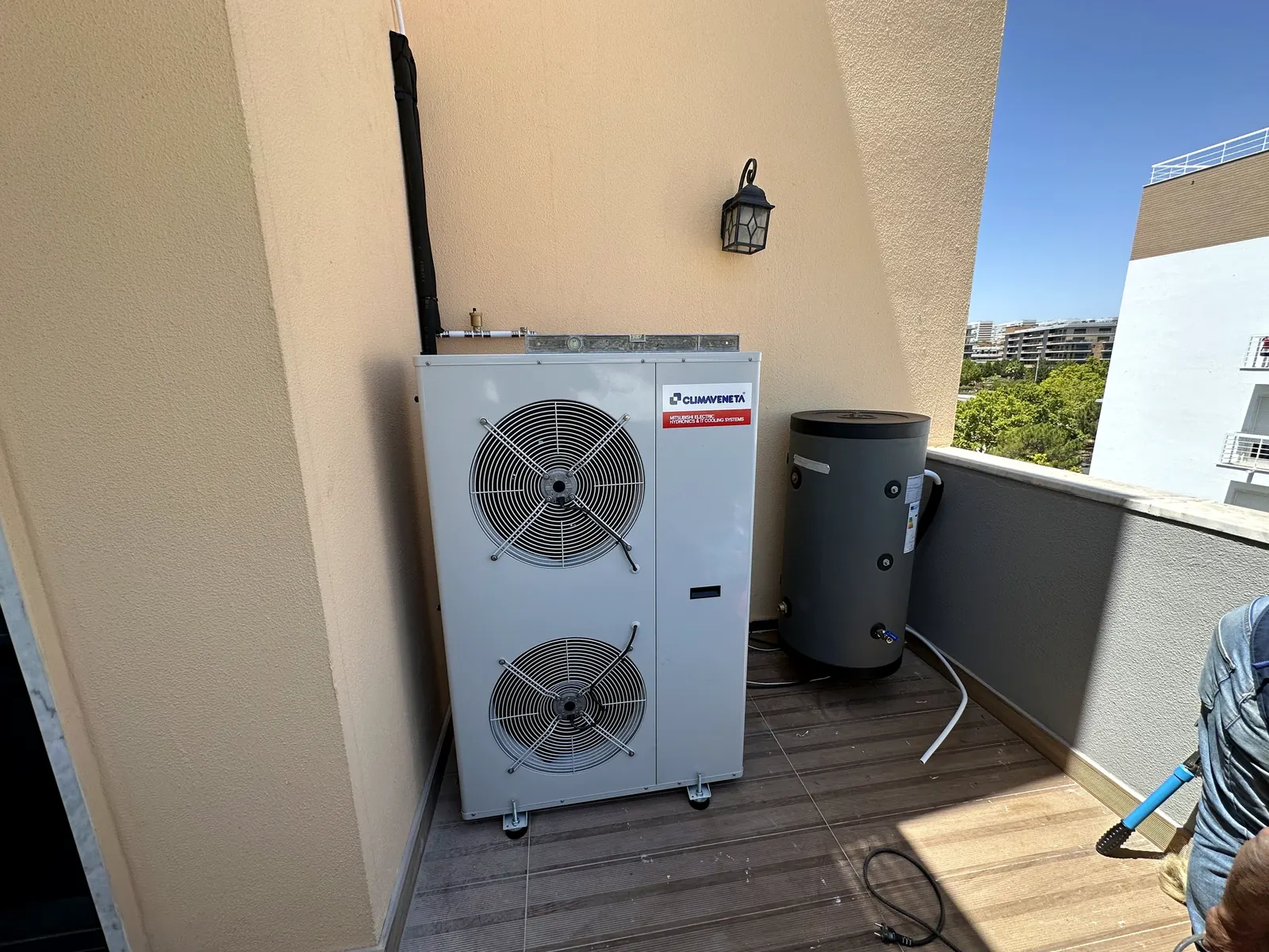
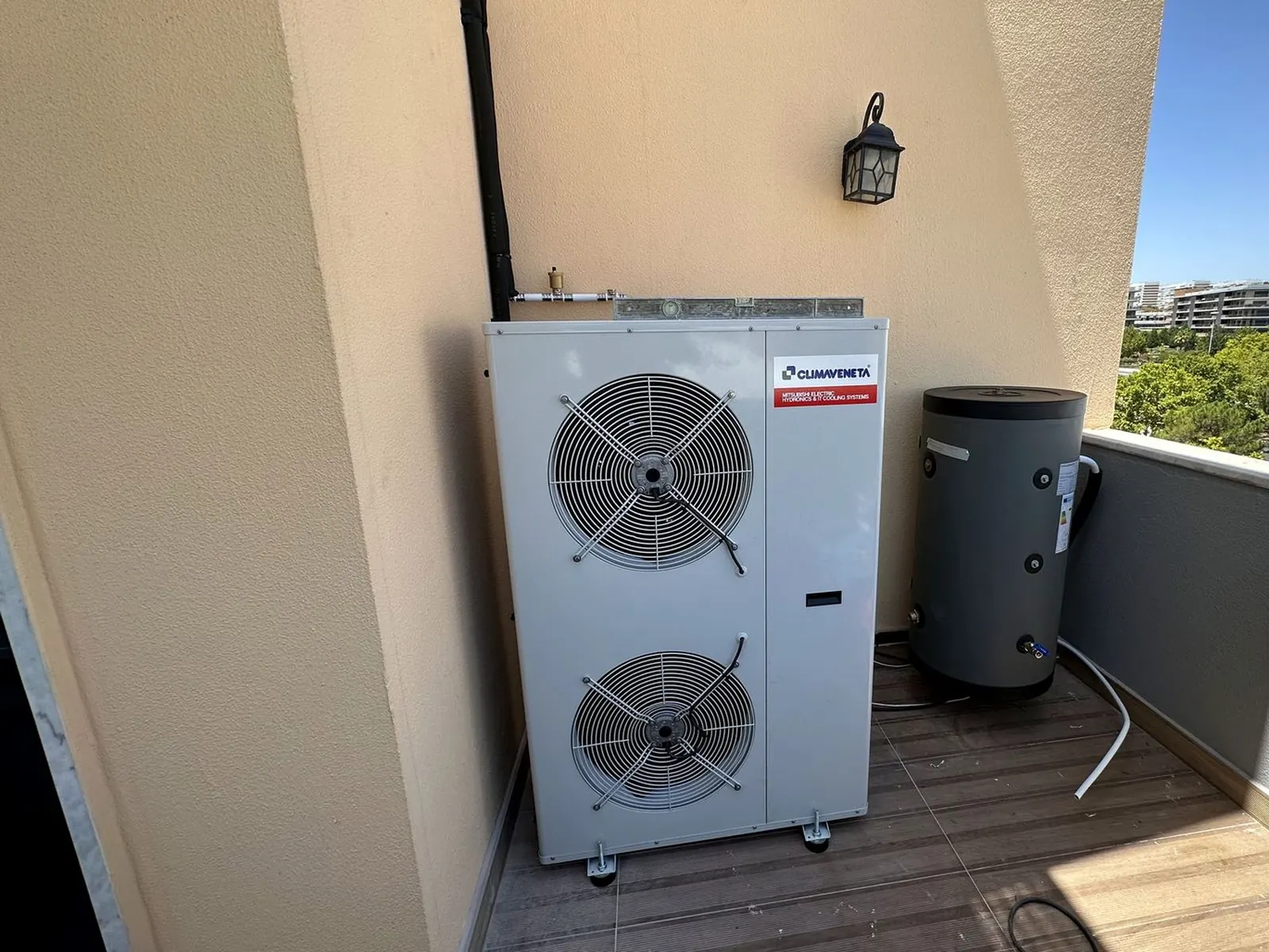
Add the heat-pump service page and wire it across the site
Port v3's air-to-water heat-pump page into PR #13's own service-page
format: hot water and combined hot water + heating (as the owner
confirmed), the panel connection by the in-house electrician, and
maintenance. No prices, response times or guarantees.

- New servicos/bombas-de-calor.html with jobs F04 and F29 (the same
  owner photos v3 used as bomba-moradia and bomba-varanda-deposito).
- Home: fifth Especialidades card; a lone last card spans its row at
  640px and up. Footer, 404, form option with [P1 · Bomba de calor],
  its WhatsApp message, cross links from AC, electrical and
  maintenance pages, vCard note and van page copy.
- Service JSON-LD on all five service pages, linked to the business
  by @id.
- F29 photo re-cropped to drop a bystander, as v3 did.
- F26 is air conditioning, not a heat pump (owner answer of 28/09 on
  v3's midea-cobertura, the same job): new title and slug.
- Drop the R-AQUA model name from F04's text.

Claude-Session: https://claude.ai/code/session_016fXcfp91ZPBrbN8QcawRdm

diff --git a/website/src/pages/servicos/bombas-de-calor.html b/website/src/pages/servicos/bombas-de-calor.html
@@ -1,0 +1,97 @@
+<!--meta {"file": "servicos/bombas-de-calor.html", "title": "Bombas de calor ar-água em Lisboa: águas quentes e aquecimento | MDM", "description": "Bombas de calor ar-água na grande Lisboa, para águas quentes e aquecimento: visita, instalação, ligação ao quadro elétrico e manutenção. Orçamento gratuito.", "nav": "servicos", "preselect": "Bomba de calor: instalação / manutenção", "wa": "bombaCalor", "cartaoSizes": "(min-width: 1440px) 628px, (min-width: 640px) 44vw, 100vw", "jsonld": ["servico", "breadcrumb", "faq"], "servico": {"nome": "Bombas de calor ar-água em Lisboa", "tipo": "Instalação e manutenção de bombas de calor ar-água", "ofertas": ["Bomba de calor para águas quentes", "Bomba de calor para águas quentes e aquecimento", "Manutenção de bombas de calor"]}, "breadcrumb": [["Início", ""], ["Bombas de calor", "servicos/bombas-de-calor.html"]], "css": ["pag-servicos.css"]} -->
+<section class="pag-hero" aria-labelledby="servT" style="--foto-ar: .75; --foto-pos-m: 50% 80%; --foto-pos-d: 50% 60%">
+  <div class="hero-foto">{{foto 04 loading="eager" sizes="(min-width: 900px) and (min-aspect-ratio: 2/3) min(57vh, 510px), 100vw" class="foto-bc"}}</div>
+  <div class="pag-hero-in">
+    <nav class="migalhas entra-1" aria-label="Migalhas">
+      <a href="{{ root }}index.html">Início</a>
+      <span aria-hidden="true">›</span>
+      <span aria-current="page">Bombas de calor</span>
+    </nav>
+    <div class="hero-rot">
+      <span class="hero-risco"></span>
+      <p class="rotulo entra-2">Bombas de calor · Grande Lisboa</p>
+    </div>
+    <h1 class="h1 entra-3" id="servT">Bombas de calor <span class="nowrap">ar-água</span>, da escolha ao quadro elétrico.</h1>
+    <p class="hero-lead entra-4">Águas quentes e aquecimento para casas e pequenos negócios. A escolha do equipamento, a instalação, a ligação ao quadro elétrico e a manutenção ficam a cargo da mesma equipa.</p>
+    <div class="hero-acoes entra-5">
+      <a class="btn btn-accent" data-lead="orcamento" data-preselect="Bomba de calor: instalação / manutenção" href="#orcamento">Pedir orçamento <svg class="seta" viewBox="0 0 256 256" aria-hidden="true"><path d="M221.66,133.66l-72,72a8,8,0,0,1-11.32-11.32L196.69,136H40a8,8,0,0,1,0-16H196.69L138.34,61.66a8,8,0,0,1,11.32-11.32l72,72A8,8,0,0,1,221.66,133.66Z"/></svg></a>
+      <a class="btn btn-wa" data-lead="bombaCalor" href="{{wa bombaCalor}}" target="_blank" rel="noopener"><svg class="ico" viewBox="0 0 256 256" aria-hidden="true"><path d="M187.58,144.84l-32-16a8,8,0,0,0-8,.5l-14.69,9.8a40.55,40.55,0,0,1-16-16l9.8-14.69a8,8,0,0,0,.5-8l-16-32A8,8,0,0,0,104,64a40,40,0,0,0-40,40,88.1,88.1,0,0,0,88,88,40,40,0,0,0,40-40A8,8,0,0,0,187.58,144.84ZM152,176a72.08,72.08,0,0,1-72-72A24,24,0,0,1,99.29,80.46l11.48,23L101,118a8,8,0,0,0-.73,7.51,56.47,56.47,0,0,0,30.15,30.15A8,8,0,0,0,138,155l14.61-9.74,23,11.48A24,24,0,0,1,152,176ZM128,24A104,104,0,0,0,36.18,176.88L24.83,210.93a16,16,0,0,0,20.24,20.24l34.05-11.35A104,104,0,1,0,128,24Zm0,192a87.87,87.87,0,0,1-44.06-11.81,8,8,0,0,0-6.54-.67L40,216,52.47,178.6a8,8,0,0,0-.66-6.54A88,88,0,1,1,128,216Z"/></svg> Enviar fotografias</a>
+    </div>
+  </div>
+  <p class="hero-leg">F04 · Bombas de calor · Unidade monobloco em lajetas de betão, no jardim de uma moradia</p>
+</section>
+
+<section class="sec" id="o-que-fazemos" aria-labelledby="fazemosT">
+  <div class="duas">
+    <div data-r>
+      <p class="rotulo rotulo-accent">O que fazemos</p>
+      <h2 class="h2 serv-h2" id="fazemosT">Água quente com o calor que está no ar.</h2>
+      <div class="prosa">
+        <p>Uma bomba de calor <span class="nowrap">ar-água</span> aquece água a partir do ar exterior. Pode servir só as águas quentes da casa, guardadas num depósito, ou, num sistema combinado, aquecer também a casa. Qual das duas faz sentido depende da casa e do uso, e é isso que vemos consigo na visita.</p>
+        <p>Antes de dar preço, vamos ao local: vemos onde pode ficar a unidade exterior, onde cabe o depósito e por onde passa a tubagem entre os dois. O equipamento é escolhido para a casa e para o consumo de água quente, não pelo catálogo.</p>
+        <p>Uma bomba de calor precisa muitas vezes de um circuito próprio e de proteção no quadro elétrico; se o quadro for antigo, pode ter de ser adaptado antes da instalação. Como temos eletricista certificado na equipa, essa parte faz-se na mesma obra, sem esperar por um segundo profissional. Veja a <a href="{{ root }}servicos/eletricidade.html">eletricidade</a> e, para depois da instalação, a <a href="{{ root }}servicos/manutencao.html">manutenção</a>.</p>
+      </div>
+    </div>
+    <ul class="lista-traco" data-r>
+      <li><strong>Águas quentes</strong>A água dos banhos e da cozinha, aquecida a partir do ar exterior e guardada num depósito próprio.</li>
+      <li><strong>Águas quentes e aquecimento</strong>O mesmo equipamento aquece a água e a casa, quando a casa e o uso o justificam.</li>
+      <li><strong>Visita técnica</strong>O sítio da unidade exterior e do depósito, o percurso da tubagem e o quadro elétrico.</li>
+      <li><strong>Ligação ao quadro</strong>Circuito próprio e proteção, feitos pelo nosso eletricista certificado na mesma obra.</li>
+      <li><strong>Arranque e explicação</strong>Deixamos o sistema a funcionar e explicamos as regulações.</li>
+      <li><strong>Manutenção</strong>Revisões pela mesma equipa que instalou, pontuais ou no contrato anual.</li>
+    </ul>
+  </div>
+</section>
+
+<section class="sec sec-areia" id="obras" aria-labelledby="obrasServT">
+  <div class="sec-cab" data-r>
+    <div>
+      <p class="rotulo rotulo-accent">Obras</p>
+      <h2 class="h2" id="obrasServT">Obras <span class="nowrap">ar-água</span></h2>
+    </div>
+    <p class="texto-aco">Unidades exteriores que aquecem ou arrefecem água, com a tubagem e o depósito, fotografadas pelos técnicos no local.</p>
+  </div>
+  <div class="obras-grelha obras-duas" data-r>
+    {{each obra-card 04,29}}
+  </div>
+  <div class="serv-mais" data-r>
+    <a class="btn btn-contorno" href="{{ root }}obras.html#fac">Obras em fachadas e terraços <svg class="seta" viewBox="0 0 256 256" aria-hidden="true"><path d="M221.66,133.66l-72,72a8,8,0,0,1-11.32-11.32L196.69,136H40a8,8,0,0,1,0-16H196.69L138.34,61.66a8,8,0,0,1,11.32-11.32l72,72A8,8,0,0,1,221.66,133.66Z"/></svg></a>
+    <a class="btn btn-contorno" href="{{ root }}obras.html">Todas as obras <svg class="seta" viewBox="0 0 256 256" aria-hidden="true"><path d="M221.66,133.66l-72,72a8,8,0,0,1-11.32-11.32L196.69,136H40a8,8,0,0,1,0-16H196.69L138.34,61.66a8,8,0,0,1,11.32-11.32l72,72A8,8,0,0,1,221.66,133.66Z"/></svg></a>
+  </div>
+</section>
+
+<section class="sec" id="metodo" aria-labelledby="metodoServT">
+  <div class="grelha">
+    <div class="metodo-intro" data-r>
+      <p class="rotulo rotulo-accent">Como trabalhamos</p>
+      <h2 class="h2" id="metodoServT">Como corre uma instalação.</h2>
+      <p class="texto-aco">Só damos preço depois de ver o local. O orçamento é gratuito e sem compromisso.</p>
+    </div>
+    <ol class="passos" data-r>
+      <li class="passo"><span class="passo-n">01</span><div><strong>Envie fotografias</strong><span>Do sítio onde pode ficar a unidade exterior, do espaço para o depósito e do quadro elétrico. Ajudam o técnico a preparar a visita.</span></div></li>
+      <li class="passo"><span class="passo-n">02</span><div><strong>Visita e orçamento</strong><span>Vemos o local, o percurso da tubagem e o quadro elétrico, escolhemos o equipamento consigo e só depois damos preço.</span></div></li>
+      <li class="passo"><span class="passo-n">03</span><div><strong>Instalação</strong><span>Unidade exterior, depósito e tubagem, circuito próprio no quadro, arranque e ensaio com tudo a funcionar.</span></div></li>
+      <li class="passo"><span class="passo-n">04</span><div><strong>Entrega e revisões</strong><span>Explicamos as regulações e deixamos a fatura com os seus dados fiscais. As revisões podem entrar num <a href="{{ root }}servicos/manutencao.html">contrato de manutenção</a>.</span></div></li>
+    </ol>
+  </div>
+</section>
+
+{{> certificacoes }}
+
+<section class="sec" id="perguntas" aria-labelledby="perguntasServT">
+  <div class="grelha">
+    <div class="faq-intro" data-r>
+      <p class="rotulo rotulo-accent">Perguntas</p>
+      <h2 class="h2" id="perguntasServT">Antes de instalar uma bomba de calor.</h2>
+    </div>
+    <div class="faq-lista" data-r>
+      <details class="faq-item"><summary>Qual é a diferença entre uma bomba de calor ar-água e um ar condicionado? <svg class="faq-mais" viewBox="0 0 256 256" aria-hidden="true"><path d="M224,128a8,8,0,0,1-8,8H136v80a8,8,0,0,1-16,0V136H40a8,8,0,0,1,0-16h80V40a8,8,0,0,1,16,0v80h80A8,8,0,0,1,224,128Z"/></svg></summary><div><p>O ar condicionado aquece ou arrefece o ar da divisão. A bomba de calor <span class="nowrap">ar-água</span> aquece água: a das torneiras, guardada num depósito, e, num sistema combinado, também a do aquecimento da casa. Se quer climatizar uma sala ou um quarto, veja o <a href="{{ root }}servicos/ar-condicionado.html">ar condicionado</a>.</p></div></details>
+      <details class="faq-item"><summary>Serve só para águas quentes ou também aquece a casa? <svg class="faq-mais" viewBox="0 0 256 256" aria-hidden="true"><path d="M224,128a8,8,0,0,1-8,8H136v80a8,8,0,0,1-16,0V136H40a8,8,0,0,1,0-16h80V40a8,8,0,0,1,16,0v80h80A8,8,0,0,1,224,128Z"/></svg></summary><div><p>Pode fazer as duas coisas. Instalamos bombas de calor só para águas quentes e sistemas combinados, que aquecem a água e a casa. Qual faz sentido depende da casa e do uso: vemos isso consigo na visita.</p></div></details>
+      <details class="faq-item"><summary>A bomba de calor precisa de obras elétricas? <svg class="faq-mais" viewBox="0 0 256 256" aria-hidden="true"><path d="M224,128a8,8,0,0,1-8,8H136v80a8,8,0,0,1-16,0V136H40a8,8,0,0,1,0-16h80V40a8,8,0,0,1,16,0v80h80A8,8,0,0,1,224,128Z"/></svg></summary><div><p>Muitas vezes precisa de um circuito próprio e de proteção no quadro elétrico. Vemos o quadro na visita, antes do orçamento. Como temos eletricista certificado na equipa, a ligação faz-se na mesma obra.</p></div></details>
+      <details class="faq-item"><summary>Quanto custa instalar uma bomba de calor? <svg class="faq-mais" viewBox="0 0 256 256" aria-hidden="true"><path d="M224,128a8,8,0,0,1-8,8H136v80a8,8,0,0,1-16,0V136H40a8,8,0,0,1,0-16h80V40a8,8,0,0,1,16,0v80h80A8,8,0,0,1,224,128Z"/></svg></summary><div><p>Depende do equipamento, do consumo de água quente da casa, de servir também o aquecimento e do sítio onde ficam a unidade exterior e o depósito, por isso não damos preço sem ver. O orçamento é gratuito e sem compromisso.</p></div></details>
+      <details class="faq-item"><summary>A bomba de calor precisa de manutenção? <svg class="faq-mais" viewBox="0 0 256 256" aria-hidden="true"><path d="M224,128a8,8,0,0,1-8,8H136v80a8,8,0,0,1-16,0V136H40a8,8,0,0,1,0-16h80V40a8,8,0,0,1,16,0v80h80A8,8,0,0,1,224,128Z"/></svg></summary><div><p>Sim. Uma revisão periódica mantém o rendimento do equipamento. A mesma equipa que instala faz a manutenção, em visitas pontuais ou no <a href="{{ root }}servicos/manutencao.html">contrato anual</a>.</p></div></details>
+    </div>
+  </div>
+</section>
+
+{{> contacto }}

diff --git a/website/src/pages/index.html b/website/src/pages/index.html
@@ -1,4 +1,4 @@
-<!--meta {"file": "index.html", "title": "Ar condicionado, ventilação e eletricidade em Lisboa | MDM", "description": "Ar condicionado, ventilação, eletricidade e manutenção na grande Lisboa desde 1991. Técnicos certificados, assistência multimarca e orçamento gratuito.", "nav": "", "jsonld": ["business", "faq"], "css": ["pag-home.css"]} -->
+<!--meta {"file": "index.html", "title": "Ar condicionado, ventilação e eletricidade em Lisboa | MDM", "description": "Ar condicionado, bombas de calor, ventilação, eletricidade e manutenção na grande Lisboa desde 1991. Técnicos certificados e orçamento gratuito.", "nav": "", "jsonld": ["business", "faq"], "css": ["pag-home.css"]} -->
 <section class="hero hero-retrato" aria-labelledby="heroT">
   <div class="hero-foto"><picture class="foto"><source media="(min-width: 700px) and (min-aspect-ratio: 4/3), (max-height: 520px) and (min-aspect-ratio: 3/2)" type="image/avif" srcset="{{ root }}assets/img/hero/mdm-plataforma-largo-1200.avif 1200w, {{ root }}assets/img/hero/mdm-plataforma-largo-1600.avif 1600w, {{ root }}assets/img/hero/mdm-plataforma-largo-2000.avif 2000w, {{ root }}assets/img/hero/mdm-plataforma-largo-2400.avif 2400w" sizes="100vw"><source media="(min-width: 700px) and (min-aspect-ratio: 4/3), (max-height: 520px) and (min-aspect-ratio: 3/2)" type="image/webp" srcset="{{ root }}assets/img/hero/mdm-plataforma-largo-1200.webp 1200w, {{ root }}assets/img/hero/mdm-plataforma-largo-1600.webp 1600w, {{ root }}assets/img/hero/mdm-plataforma-largo-2000.webp 2000w, {{ root }}assets/img/hero/mdm-plataforma-largo-2400.webp 2400w" sizes="100vw"><source media="(min-width: 700px) and (min-aspect-ratio: 4/3), (max-height: 520px) and (min-aspect-ratio: 3/2)" srcset="{{ root }}assets/img/hero/mdm-plataforma-largo-1600.jpg 1600w, {{ root }}assets/img/hero/mdm-plataforma-largo-2400.jpg 2400w" sizes="100vw"><source type="image/avif" srcset="{{ root }}assets/img/hero/mdm-plataforma-600.avif 600w, {{ root }}assets/img/hero/mdm-plataforma-800.avif 800w, {{ root }}assets/img/hero/mdm-plataforma-1000.avif 1000w, {{ root }}assets/img/hero/mdm-plataforma-1200.avif 1200w" sizes="(max-width: 599px) and (min-resolution: 2.5dppx) 67vw, (min-width: 900px) and (min-aspect-ratio: 2/3) calc((100vh - 76px) * .75), (min-width: 700px) and (min-aspect-ratio: 6/5) calc((100vh - 64px) * .75), (max-height: 520px) and (min-aspect-ratio: 3/2) calc((100vh - 64px) * .75), 100vw"><source type="image/webp" srcset="{{ root }}assets/img/hero/mdm-plataforma-600.webp 600w, {{ root }}assets/img/hero/mdm-plataforma-800.webp 800w, {{ root }}assets/img/hero/mdm-plataforma-1000.webp 1000w, {{ root }}assets/img/hero/mdm-plataforma-1200.webp 1200w" sizes="(max-width: 599px) and (min-resolution: 2.5dppx) 67vw, (min-width: 900px) and (min-aspect-ratio: 2/3) calc((100vh - 76px) * .75), (min-width: 700px) and (min-aspect-ratio: 6/5) calc((100vh - 64px) * .75), (max-height: 520px) and (min-aspect-ratio: 3/2) calc((100vh - 64px) * .75), 100vw"><img src="{{ root }}assets/img/hero/mdm-plataforma-1200.jpg" srcset="{{ root }}assets/img/hero/mdm-plataforma-600.jpg 600w, {{ root }}assets/img/hero/mdm-plataforma-1200.jpg 1200w" sizes="(max-width: 599px) and (min-resolution: 2.5dppx) 67vw, (min-width: 900px) and (min-aspect-ratio: 2/3) calc((100vh - 76px) * .75), (min-width: 700px) and (min-aspect-ratio: 6/5) calc((100vh - 64px) * .75), (max-height: 520px) and (min-aspect-ratio: 3/2) calc((100vh - 64px) * .75), 100vw" alt="Camião da MDM com plataforma elevatória à porta de um pavilhão; no cesto, dois técnicos montam unidades exteriores de ar condicionado na fachada." width="1200" height="1600" loading="eager" decoding="async" fetchpriority="high"></picture></div>
   <div class="hero-in">
@@ -19,7 +19,7 @@
 <div class="faixa">
   <div class="faixa-in">
     <div class="faixa-item"><strong>1991</strong><span>Fundação</span></div>
-    <div class="faixa-item"><strong>4</strong><span>Especialidades</span></div>
+    <div class="faixa-item"><strong>5</strong><span>Especialidades</span></div>
     <div class="faixa-item"><strong>Grande Lisboa</strong><span>Zona de intervenção</span></div>
     <a class="faixa-item foco-dentro" data-lead="tel" href="{{ site.phoneHref }}"><strong>{{ site.phone }}</strong><span>{{ site.hours }}</span></a>
   </div>
@@ -29,7 +29,7 @@
   <div class="sec-cab" data-r>
     <div>
       <p class="rotulo rotulo-accent">Especialidades</p>
-      <h2 class="h2" id="espT">Quatro ofícios,<br> uma única equipa.</h2>
+      <h2 class="h2" id="espT">Cinco ofícios,<br> uma única equipa.</h2>
     </div>
     <p class="texto-aco">Técnicos certificados em AVAC e em eletricidade: instalação, ligação elétrica, condutas e manutenção, com a mesma empresa a responder por tudo.</p>
   </div>
@@ -40,6 +40,14 @@
         <div class="esp-cab"><h3 class="h3" id="esp-ac-t">Ar condicionado</h3><svg class="seta" viewBox="0 0 256 256" aria-hidden="true"><path d="M221.66,133.66l-72,72a8,8,0,0,1-11.32-11.32L196.69,136H40a8,8,0,0,1,0-16H196.69L138.34,61.66a8,8,0,0,1,11.32-11.32l72,72A8,8,0,0,1,221.66,133.66Z"/></svg></div>
         <p id="esp-ac-d">Split, multi-split e VRF. Da moradia ao pavilhão industrial, com maciços, apoios antivibráticos e tubagem à vista feita a régua.</p>
         <span class="esp-marcas">Midea · Mitsubishi Electric · Daikin</span>
+      </div>
+    </a>
+    <a class="esp-card" href="{{ root }}servicos/bombas-de-calor.html" aria-labelledby="esp-bc-t" aria-describedby="esp-bc-d">
+      <div class="quadro">{{foto 04 sizes="(min-width: 1100px) 320px, (min-width: 640px) 45vw, 100vw" class="foto-bc"}}</div>
+      <div class="esp-corpo">
+        <div class="esp-cab"><h3 class="h3" id="esp-bc-t">Bombas de calor</h3><svg class="seta" viewBox="0 0 256 256" aria-hidden="true"><path d="M221.66,133.66l-72,72a8,8,0,0,1-11.32-11.32L196.69,136H40a8,8,0,0,1,0-16H196.69L138.34,61.66a8,8,0,0,1,11.32-11.32l72,72A8,8,0,0,1,221.66,133.66Z"/></svg></div>
+        <p id="esp-bc-d">Águas quentes e aquecimento a partir do ar exterior, com a ligação ao quadro elétrico e a manutenção feitas pela mesma equipa.</p>
+        <span class="esp-marcas"><span class="nowrap">Ar-água</span> · Águas quentes · Aquecimento</span>
       </div>
     </a>
     <a class="esp-card" href="{{ root }}servicos/manutencao.html" aria-labelledby="esp-man-t" aria-describedby="esp-man-d">

diff --git a/website/src/pages/servicos/eletricidade.html b/website/src/pages/servicos/eletricidade.html
@@ -1,4 +1,4 @@
-<!--meta {"file": "servicos/eletricidade.html", "title": "Eletricista para quadros e alimentações AVAC em Lisboa | MDM", "description": "Quadros, alimentações e proteções para ar condicionado e ventilação na grande Lisboa. Comando, automatismos e diagnóstico de placas por técnico certificado.", "nav": "servicos", "preselect": "Eletricidade: quadros e alimentações AVAC", "wa": "eletricidade", "cartaoSizes": "(min-width: 1440px) 628px, (min-width: 640px) 44vw, 100vw", "jsonld": ["breadcrumb", "faq"], "breadcrumb": [["Início", ""], ["Eletricidade", "servicos/eletricidade.html"]], "css": ["pag-servicos.css"]} -->
+<!--meta {"file": "servicos/eletricidade.html", "title": "Eletricista para quadros e alimentações AVAC em Lisboa | MDM", "description": "Quadros, alimentações e proteções para ar condicionado e ventilação na grande Lisboa. Comando, automatismos e diagnóstico de placas por técnico certificado.", "nav": "servicos", "preselect": "Eletricidade: quadros e alimentações AVAC", "wa": "eletricidade", "cartaoSizes": "(min-width: 1440px) 628px, (min-width: 640px) 44vw, 100vw", "jsonld": ["servico", "breadcrumb", "faq"], "servico": {"nome": "Eletricidade para AVAC em Lisboa", "tipo": "Instalações elétricas para ar condicionado e ventilação", "ofertas": ["Quadros elétricos para AVAC", "Alimentações e proteções", "Comando e automatismos", "Diagnóstico de placas"]}, "breadcrumb": [["Início", ""], ["Eletricidade", "servicos/eletricidade.html"]], "css": ["pag-servicos.css"]} -->
 <section class="pag-hero" aria-labelledby="servT" style="--foto-ar: .75; --foto-pos-m: 60% 35%; --foto-pos-d: 60% 40%">
   <div class="hero-foto">{{foto 15 loading="eager" sizes="(min-width: 900px) and (min-aspect-ratio: 2/3) min(57vh, 510px), 100vw" class="foto-ele"}}</div>
   <div class="pag-hero-in">
@@ -29,12 +29,12 @@
       <div class="prosa">
         <p>Uma unidade de ar condicionado bem montada não arranca sem uma alimentação à medida: cabo com a secção certa, proteção própria no quadro e ligação à terra. Num edifício com várias máquinas, isso quer dizer muitas vezes um quadro só para o AVAC, com cada circuito identificado.</p>
         <p>Fazemos também o comando: termóstatos, comandos centralizados, horários e automatismos que ligam a ventilação ou o ar condicionado quando é preciso, ou que impedem um equipamento de arrancar enquanto outro está parado.</p>
-        <p>Quando a máquina não liga ou mostra um código de erro, abrimos o painel e medimos. Nem todas as avarias são de gás: pode ser uma proteção que dispara, um contactor gasto ou uma placa de comando com defeito. Como os nossos técnicos são certificados em eletricidade e em <a href="{{ root }}servicos/ar-condicionado.html">ar condicionado</a>, as duas partes ficam a cargo da mesma empresa.</p>
+        <p>Quando a máquina não liga ou mostra um código de erro, abrimos o painel e medimos. Nem todas as avarias são de gás: pode ser uma proteção que dispara, um contactor gasto ou uma placa de comando com defeito. Como os nossos técnicos são certificados em eletricidade e em <a href="{{ root }}servicos/ar-condicionado.html">ar condicionado</a>, as duas partes ficam a cargo da mesma empresa. O mesmo vale para as <a href="{{ root }}servicos/bombas-de-calor.html">bombas de calor</a>: o circuito próprio e a proteção no quadro fazem-se na mesma obra.</p>
       </div>
     </div>
     <ul class="lista-traco" data-r>
       <li><strong>Quadros elétricos para AVAC</strong>Montagem de quadros novos ou adaptação dos existentes, com circuitos identificados.</li>
-      <li><strong>Alimentações</strong>Do quadro até cada unidade exterior, interior ou ventilador.</li>
+      <li><strong>Alimentações</strong>Do quadro até cada unidade exterior, interior, ventilador ou bomba de calor.</li>
       <li><strong>Proteções</strong>Disjuntores e diferenciais escolhidos para cada equipamento.</li>
       <li><strong>Comando</strong>Termóstatos, comandos centralizados e cablagem entre unidades.</li>
       <li><strong>Automatismos</strong>Horários, encravamentos e arranque coordenado de equipamentos.</li>

diff --git a/website/src/pages/servicos/manutencao.html b/website/src/pages/servicos/manutencao.html
@@ -1,4 +1,4 @@
-<!--meta {"file": "servicos/manutencao.html", "title": "Manutenção AVAC em Lisboa: contratos anuais | MDM", "description": "Manutenção AVAC na grande Lisboa: contrato anual, visitas programadas e relatório escrito, para empresas, condomínios, banca, indústria e escolas.", "nav": "servicos", "preselect": "Manutenção preventiva: contrato anual", "wa": "manutencao", "jsonld": ["breadcrumb", "faq"], "breadcrumb": [["Início", ""], ["Manutenção", "servicos/manutencao.html"]], "css": ["pag-servicos.css"]} -->
+<!--meta {"file": "servicos/manutencao.html", "title": "Manutenção AVAC em Lisboa: contratos anuais | MDM", "description": "Manutenção AVAC na grande Lisboa: contrato anual, visitas programadas e relatório escrito, para empresas, condomínios, banca, indústria e escolas.", "nav": "servicos", "preselect": "Manutenção preventiva: contrato anual", "wa": "manutencao", "jsonld": ["servico", "breadcrumb", "faq"], "servico": {"nome": "Manutenção AVAC em Lisboa", "tipo": "Manutenção preventiva e corretiva de AVAC", "ofertas": ["Contrato anual de manutenção preventiva", "Relatório escrito em cada visita", "Reparação de avarias"]}, "breadcrumb": [["Início", ""], ["Manutenção", "servicos/manutencao.html"]], "css": ["pag-servicos.css"]} -->
 <section class="pag-hero" aria-labelledby="servT" style="--foto-ar: 1.3333; --foto-pos-m: 56% 45%; --foto-pos-d: 56% 40%">
   <div class="hero-foto">{{foto 02 loading="eager" sizes="(min-width: 900px) and (min-aspect-ratio: 2/3) min(101vh, 907px), 100vw" class="foto-man"}}</div>
   <div class="pag-hero-in">
@@ -29,7 +29,7 @@
       <div class="prosa">
         <p>Um equipamento que ninguém abre durante anos acaba por falhar no dia em que faz mais falta. A manutenção preventiva serve para isso: numa visita programada, o técnico limpa filtros e baterias, verifica o gás, os condensados e as ligações elétricas, e vê que peças dão sinais de desgaste antes de pararem.</p>
         <p>No contrato anual fica escrito que equipamentos estão incluídos e quando são as visitas. No fim de cada visita recebe um relatório com o estado de cada máquina e o que foi feito, pronto a mostrar à administração do condomínio ou a quem gere o edifício.</p>
-        <p>Quando há uma avaria, fazemos também a manutenção corretiva. A assistência é multimarca, com peças originais. E se o problema estiver no quadro ou na alimentação, os nossos técnicos de <a href="{{ root }}servicos/eletricidade.html">eletricidade</a> também tratam disso.</p>
+        <p>Quando há uma avaria, fazemos também a manutenção corretiva. A assistência é multimarca, com peças originais. E se o problema estiver no quadro ou na alimentação, os nossos técnicos de <a href="{{ root }}servicos/eletricidade.html">eletricidade</a> também tratam disso. O contrato anual pode incluir as <a href="{{ root }}servicos/bombas-de-calor.html">bombas de calor</a>.</p>
       </div>
     </div>
     <ul class="lista-traco" data-r>
@@ -39,6 +39,7 @@
       <li><strong>Circuito de gás</strong>Pressões medidas com manómetros e procura de fugas.</li>
       <li><strong>Parte elétrica</strong>Ligações, proteções e placas de comando.</li>
       <li><strong>Ventilação</strong>Revisão de condutas, ventiladores e unidades de tratamento de ar.</li>
+      <li><strong>Bombas de calor</strong>Revisões pontuais ou no contrato anual, pela mesma equipa que as instala.</li>
       <li><strong>Relatório escrito</strong>Depois de cada visita, máquina a máquina.</li>
       <li><strong>Reparação de avarias</strong>Diagnóstico no local e peças originais, em qualquer marca.</li>
     </ul>

diff --git a/website/src/pages/servicos/ar-condicionado.html b/website/src/pages/servicos/ar-condicionado.html
@@ -1,4 +1,4 @@
-<!--meta {"file": "servicos/ar-condicionado.html", "title": "Ar condicionado em Lisboa: split, multi-split e VRF | MDM", "description": "Ar condicionado na grande Lisboa: split, multi-split e VRF em maciços com apoios antivibráticos e tubagem a prumo. Orçamento gratuito e sem compromisso.", "nav": "servicos", "preselect": "Ar condicionado: montagem / instalação", "wa": "montagem", "jsonld": ["breadcrumb", "faq"], "breadcrumb": [["Início", ""], ["Ar condicionado", "servicos/ar-condicionado.html"]], "css": ["pag-servicos.css"]} -->
+<!--meta {"file": "servicos/ar-condicionado.html", "title": "Ar condicionado em Lisboa: split, multi-split e VRF | MDM", "description": "Ar condicionado na grande Lisboa: split, multi-split e VRF em maciços com apoios antivibráticos e tubagem a prumo. Orçamento gratuito e sem compromisso.", "nav": "servicos", "preselect": "Ar condicionado: montagem / instalação", "wa": "montagem", "jsonld": ["servico", "breadcrumb", "faq"], "servico": {"nome": "Ar condicionado em Lisboa", "tipo": "Instalação e reparação de ar condicionado", "ofertas": ["Split mural", "Multi-split", "VRF", "Unidades de condutas", "Reparação de avarias"]}, "breadcrumb": [["Início", ""], ["Ar condicionado", "servicos/ar-condicionado.html"]], "css": ["pag-servicos.css"]} -->
 <section class="pag-hero" aria-labelledby="servT" style="--foto-ar: 1.3333; --foto-pos-m: 50% 60%; --foto-pos-d: 50% 62%">
   <div class="hero-foto">{{foto 01 loading="eager" sizes="(min-width: 900px) and (min-aspect-ratio: 2/3) min(101vh, 907px), 100vw" class="foto-ac"}}</div>
   <div class="pag-hero-in">
@@ -27,7 +27,7 @@
       <p class="rotulo rotulo-accent">O que fazemos</p>
       <h2 class="h2 serv-h2" id="fazemosT">Da visita ao local ao arranque da máquina.</h2>
       <div class="prosa">
-        <p>Antes de dar preço, vamos ao sítio. Vemos onde pode ficar a unidade exterior, por onde passa a tubagem, para onde escorrem os condensados e de onde vem a alimentação elétrica. É aí que se decide entre um split por divisão, um multi-split com uma só máquina lá fora ou, num edifício com muitas zonas, um sistema VRF.</p>
+        <p>Antes de dar preço, vamos ao sítio. Vemos onde pode ficar a unidade exterior, por onde passa a tubagem, para onde escorrem os condensados e de onde vem a alimentação elétrica. É aí que se decide entre um split por divisão, um multi-split com uma só máquina lá fora ou, num edifício com muitas zonas, um sistema VRF. Para aquecer a água da casa, a resposta é outra: uma <a href="{{ root }}servicos/bombas-de-calor.html">bomba de calor <span class="nowrap">ar-água</span></a>.</p>
         <p>Na cobertura ou no terraço, a máquina não fica pousada na laje: assenta em maciços de betão ou em perfis metálicos, sobre apoios antivibráticos, para não passar vibração ao edifício. A tubagem e a calha seguem a prumo e em esquadria, porque vão ficar à vista durante muitos anos.</p>
         <p>Dentro de casa, tapamos móveis e chão antes de abrir a caixa e aspiramos no fim. Se o aparelho que já tem avariou, também o reparamos: a assistência é multimarca, com peças originais. Para o manter a trabalhar, veja a <a href="{{ root }}servicos/manutencao.html">manutenção preventiva</a>.</p>
       </div>

diff --git a/website/src/pages/carrinha.html b/website/src/pages/carrinha.html
@@ -1,4 +1,4 @@
-<!--meta {"file": "carrinha.html", "title": "Viu a nossa carrinha? | MDM Assistência Técnica", "description": "A carrinha da MDM está a trabalhar perto de si. Ar condicionado, ventilação, eletricidade e manutenção na grande Lisboa desde 1991. Orçamento gratuito por WhatsApp ou telefone.", "nav": "", "robots": "noindex", "wa": "carrinha", "css": ["pag-carrinha.css"], "og": "foto-26-1600.jpg"} -->
+<!--meta {"file": "carrinha.html", "title": "Viu a nossa carrinha? | MDM Assistência Técnica", "description": "A carrinha da MDM está a trabalhar perto de si. Ar condicionado, bombas de calor, ventilação, eletricidade e manutenção na grande Lisboa desde 1991. Orçamento gratuito por WhatsApp ou telefone.", "nav": "", "robots": "noindex", "wa": "carrinha", "css": ["pag-carrinha.css"], "og": "foto-26-1600.jpg"} -->
 <!-- Página de quem leu o código QR de uma carrinha (marketing/gerar_qr.py).
      ?v=01&p=t diz a carrinha e o lado; site.js junta essa origem ao WhatsApp, ao formulário e à medição.
      Fora do menu e do mapa do site: só se chega aqui pelo código. -->
@@ -11,9 +11,9 @@
       <p class="rotulo entra-2">MDM · Grande Lisboa · Desde 1991</p>
     </div>
     <h1 class="h1 entra-3" id="carT">Viu a nossa carrinha?</h1>
-    <p class="hero-lead entra-4">Se a carrinha está aí, há uma obra aqui perto. Ar condicionado, ventilação, eletricidade e manutenção: diga-nos o que precisa e o orçamento é gratuito.</p>
+    <p class="hero-lead entra-4">Se a carrinha está aí, há uma obra aqui perto. Ar condicionado, bombas de calor, ventilação, eletricidade e manutenção: diga-nos o que precisa e o orçamento é gratuito.</p>
   </div>
-  <p class="hero-leg">F26 · Ar condicionado · Bomba de calor sobre Moscavide</p>
+  <p class="hero-leg">F26 · Ar condicionado · Unidade Midea sobre Moscavide</p>
 </section>
 
 <section class="sec car-escolha" aria-labelledby="escT" data-esconde-barra>
@@ -40,7 +40,7 @@
       </a></li>
       <li><a class="car-op" data-lead="carrinha" href="{{wa carrinha}}" target="_blank" rel="noopener">
         <span class="car-op-n">04</span>
-        <span class="car-op-txt"><strong>Outra coisa</strong><span>Eletricidade, ventilação ou vários serviços. Conte-nos em duas linhas.</span></span>
+        <span class="car-op-txt"><strong>Outra coisa</strong><span>Bomba de calor, eletricidade, ventilação ou vários serviços. Conte-nos em duas linhas.</span></span>
         <span class="car-op-via">WhatsApp <svg class="seta" viewBox="0 0 256 256" aria-hidden="true"><path d="M221.66,133.66l-72,72a8,8,0,0,1-11.32-11.32L196.69,136H40a8,8,0,0,1,0-16H196.69L138.34,61.66a8,8,0,0,1,11.32-11.32l72,72A8,8,0,0,1,221.66,133.66Z"/></svg></span>
       </a></li>
     </ul>

diff --git a/website/src/pages/404.html b/website/src/pages/404.html
@@ -16,6 +16,7 @@
         <li><a href="{{ root }}index.html"><strong>Início <svg class="seta" viewBox="0 0 256 256" aria-hidden="true"><path d="M221.66,133.66l-72,72a8,8,0,0,1-11.32-11.32L196.69,136H40a8,8,0,0,1,0-16H196.69L138.34,61.66a8,8,0,0,1,11.32-11.32l72,72A8,8,0,0,1,221.66,133.66Z"/></svg></strong><span>A MDM, as especialidades e como trabalhamos.</span></a></li>
         <li><a href="{{ root }}obras.html"><strong>Obras <svg class="seta" viewBox="0 0 256 256" aria-hidden="true"><path d="M221.66,133.66l-72,72a8,8,0,0,1-11.32-11.32L196.69,136H40a8,8,0,0,1,0-16H196.69L138.34,61.66a8,8,0,0,1,11.32-11.32l72,72A8,8,0,0,1,221.66,133.66Z"/></svg></strong><span>Trabalhos fotografados no local, com a ficha de cada um.</span></a></li>
         <li><a href="{{ root }}servicos/ar-condicionado.html"><strong>Ar condicionado <svg class="seta" viewBox="0 0 256 256" aria-hidden="true"><path d="M221.66,133.66l-72,72a8,8,0,0,1-11.32-11.32L196.69,136H40a8,8,0,0,1,0-16H196.69L138.34,61.66a8,8,0,0,1,11.32-11.32l72,72A8,8,0,0,1,221.66,133.66Z"/></svg></strong><span>Montagem, avarias e reparação.</span></a></li>
+        <li><a href="{{ root }}servicos/bombas-de-calor.html"><strong>Bombas de calor <svg class="seta" viewBox="0 0 256 256" aria-hidden="true"><path d="M221.66,133.66l-72,72a8,8,0,0,1-11.32-11.32L196.69,136H40a8,8,0,0,1,0-16H196.69L138.34,61.66a8,8,0,0,1,11.32-11.32l72,72A8,8,0,0,1,221.66,133.66Z"/></svg></strong><span>Águas quentes e aquecimento: instalação e manutenção.</span></a></li>
         <li><a href="{{ root }}servicos/manutencao.html"><strong>Manutenção <svg class="seta" viewBox="0 0 256 256" aria-hidden="true"><path d="M221.66,133.66l-72,72a8,8,0,0,1-11.32-11.32L196.69,136H40a8,8,0,0,1,0-16H196.69L138.34,61.66a8,8,0,0,1,11.32-11.32l72,72A8,8,0,0,1,221.66,133.66Z"/></svg></strong><span>Contratos anuais com visitas programadas e relatório.</span></a></li>
         <li><a href="{{ root }}servicos/eletricidade.html"><strong>Eletricidade <svg class="seta" viewBox="0 0 256 256" aria-hidden="true"><path d="M221.66,133.66l-72,72a8,8,0,0,1-11.32-11.32L196.69,136H40a8,8,0,0,1,0-16H196.69L138.34,61.66a8,8,0,0,1,11.32-11.32l72,72A8,8,0,0,1,221.66,133.66Z"/></svg></strong><span>Quadros, alimentações AVAC e avarias.</span></a></li>
         <li><a href="{{ root }}servicos/ventilacao.html"><strong>Ventilação <svg class="seta" viewBox="0 0 256 256" aria-hidden="true"><path d="M221.66,133.66l-72,72a8,8,0,0,1-11.32-11.32L196.69,136H40a8,8,0,0,1,0-16H196.69L138.34,61.66a8,8,0,0,1,11.32-11.32l72,72A8,8,0,0,1,221.66,133.66Z"/></svg></strong><span>Instalação e revisão.</span></a></li>

diff --git a/website/assets/css/site.css b/website/assets/css/site.css
@@ -291,6 +291,24 @@ body.menu-aberto { overflow: hidden; }
 .esp-card:hover .seta, .esp-card:focus-visible .seta { transform: translateX(4px); }
 .esp-corpo p { font-size: 16px; color: var(--aco); flex-grow: 1; }
 .esp-marcas { font-family: var(--sans); font-size: 11px; font-weight: 500; letter-spacing: .12em; text-transform: uppercase; color: var(--aco); border-top: 1px solid #E6E2DA; padding-top: 12px; }
+.esp-card .foto-bc img { object-position: 50% 72%; }   /* bomba de calor (fotografia ao alto): a máquina, não o céu */
+/* A especialidade que fica sozinha na última linha ocupa-a toda: fotografia com a largura de uma coluna
+   (alinhada com as de cima, descontadas as bordas) e o texto ao lado, sem células vazias. A fotografia acompanha a altura do texto. */
+@media (min-width: 640px) and (max-width: 1099px) {
+  .esp-card:last-child:nth-child(odd) { grid-column: 1 / -1; display: grid; grid-template-columns: calc((100% + 2px - var(--gap)) / 2 - 2px) minmax(0, 1fr); }
+  .esp-card:last-child:nth-child(odd) .quadro { aspect-ratio: auto; position: relative; min-height: 240px; }
+  .esp-card:last-child:nth-child(odd) .quadro picture { position: absolute; inset: 0; }
+  .esp-card:last-child:nth-child(odd) .esp-corpo { justify-content: center; }
+  .esp-card:last-child:nth-child(odd) .esp-corpo p { flex-grow: 0; }
+}
+@media (min-width: 1100px) {
+  .esp-card:last-child:nth-child(4n+1) { grid-column: 1 / -1; display: grid; grid-template-columns: calc((100% + 2px - 3 * var(--gap)) / 4 - 2px) minmax(0, 1fr); }
+  .esp-card:last-child:nth-child(4n+1) .quadro { aspect-ratio: auto; position: relative; min-height: 220px; }
+  .esp-card:last-child:nth-child(4n+1) .quadro picture { position: absolute; inset: 0; }
+  .esp-card:last-child:nth-child(4n+1) .esp-corpo { justify-content: center; padding-left: 28px; }
+  .esp-card:last-child:nth-child(4n+1) .esp-corpo > * { max-width: 640px; }
+  .esp-card:last-child:nth-child(4n+1) .esp-corpo p { flex-grow: 0; }
+}
 
 /* ── Onde trabalhamos ── */
 .onde-grelha { display: grid; gap: 28px var(--gap); grid-template-columns: minmax(0, 1fr); }

diff --git a/website/src/pages/servicos/ventilacao.html b/website/src/pages/servicos/ventilacao.html
@@ -1,4 +1,4 @@
-<!--meta {"file": "servicos/ventilacao.html", "title": "Ventilação e extração em Lisboa: condutas e UTA | MDM", "description": "Ventilação na grande Lisboa: extração, insuflação, condutas, grupos de aspiração e UTA, em caves, tetos e fachadas. Instalação, revisão e orçamento gratuito.", "nav": "servicos", "preselect": "Ventilação: instalação / revisão", "wa": "ventilacao", "jsonld": ["breadcrumb", "faq"], "breadcrumb": [["Início", ""], ["Ventilação", "servicos/ventilacao.html"]], "css": ["pag-servicos.css"]} -->
+<!--meta {"file": "servicos/ventilacao.html", "title": "Ventilação e extração em Lisboa: condutas e UTA | MDM", "description": "Ventilação na grande Lisboa: extração, insuflação, condutas, grupos de aspiração e UTA, em caves, tetos e fachadas. Instalação, revisão e orçamento gratuito.", "nav": "servicos", "preselect": "Ventilação: instalação / revisão", "wa": "ventilacao", "jsonld": ["servico", "breadcrumb", "faq"], "servico": {"nome": "Ventilação e extração em Lisboa", "tipo": "Instalação e revisão de ventilação", "ofertas": ["Extração", "Insuflação", "Condutas", "Grupos de aspiração", "UTA"]}, "breadcrumb": [["Início", ""], ["Ventilação", "servicos/ventilacao.html"]], "css": ["pag-servicos.css"]} -->
 <section class="pag-hero" aria-labelledby="servT" style="--foto-ar: 1.3333; --foto-pos-m: 50% 45%; --foto-pos-d: 50% 45%">
   <div class="hero-foto">{{foto 24 loading="eager" sizes="(min-width: 900px) and (min-aspect-ratio: 2/3) min(101vh, 907px), 100vw" class="foto-ven"}}</div>
   <div class="pag-hero-in">

diff --git a/website/src/partials/footer.html b/website/src/partials/footer.html
@@ -2,11 +2,12 @@
   <div class="rodape-in">
     <div class="rodape-marca">
       <img src="{{ root }}assets/img/logo-mdm.svg" alt="MDM" width="56" height="58" loading="lazy">
-      <p>Assistência técnica desde {{ site.founded }}.<br>Ar condicionado, ventilação, eletricidade e manutenção na grande Lisboa.</p>
+      <p>Assistência técnica desde {{ site.founded }}.<br>Ar condicionado, bombas de calor, ventilação, eletricidade e manutenção na grande Lisboa.</p>
     </div>
     <nav class="rodape-col" aria-label="Serviços">
       <p class="rotulo">Serviços</p>
       <a href="{{ root }}servicos/ar-condicionado.html">Ar condicionado</a>
+      <a href="{{ root }}servicos/bombas-de-calor.html">Bombas de calor</a>
       <a href="{{ root }}servicos/manutencao.html">Manutenção</a>
       <a href="{{ root }}servicos/eletricidade.html">Eletricidade</a>
       <a href="{{ root }}servicos/ventilacao.html">Ventilação</a>

diff --git a/website/src/partials/contacto.html b/website/src/partials/contacto.html
@@ -42,6 +42,7 @@
           <select class="campo-in" id="qServico" name="servico">
             <option value="">Escolha o tipo de serviço</option>
             <option value="Ar condicionado: montagem / instalação">Ar condicionado: montagem</option>
+            <option value="Bomba de calor: instalação / manutenção">Bomba de calor: instalação</option>
             <option value="Manutenção preventiva: contrato anual">Manutenção: contrato anual</option>
             <option value="Eletricidade: quadros e alimentações AVAC">Eletricidade: quadros AVAC</option>
             <option value="Ar condicionado: avaria / reparação">Ar condicionado: avaria</option>

diff --git a/website/assets/js/site.js b/website/assets/js/site.js
@@ -393,6 +393,7 @@
   var WA_BASE = 'https://wa.me/351910307579?text=';
   var TRIAGEM = {
     'Ar condicionado: montagem / instalação':   { p: 'P1', seg: 'Montagem AC' },
+    'Bomba de calor: instalação / manutenção':  { p: 'P1', seg: 'Bomba de calor' },
     'Manutenção preventiva: contrato anual':    { p: 'P2', seg: 'Manutenção preventiva' },
     'Eletricidade: quadros e alimentações AVAC': { p: 'P3', seg: 'Eletricista certificado' },
     'Ar condicionado: avaria / reparação':      { p: 'P4', seg: 'Avaria AC' },
